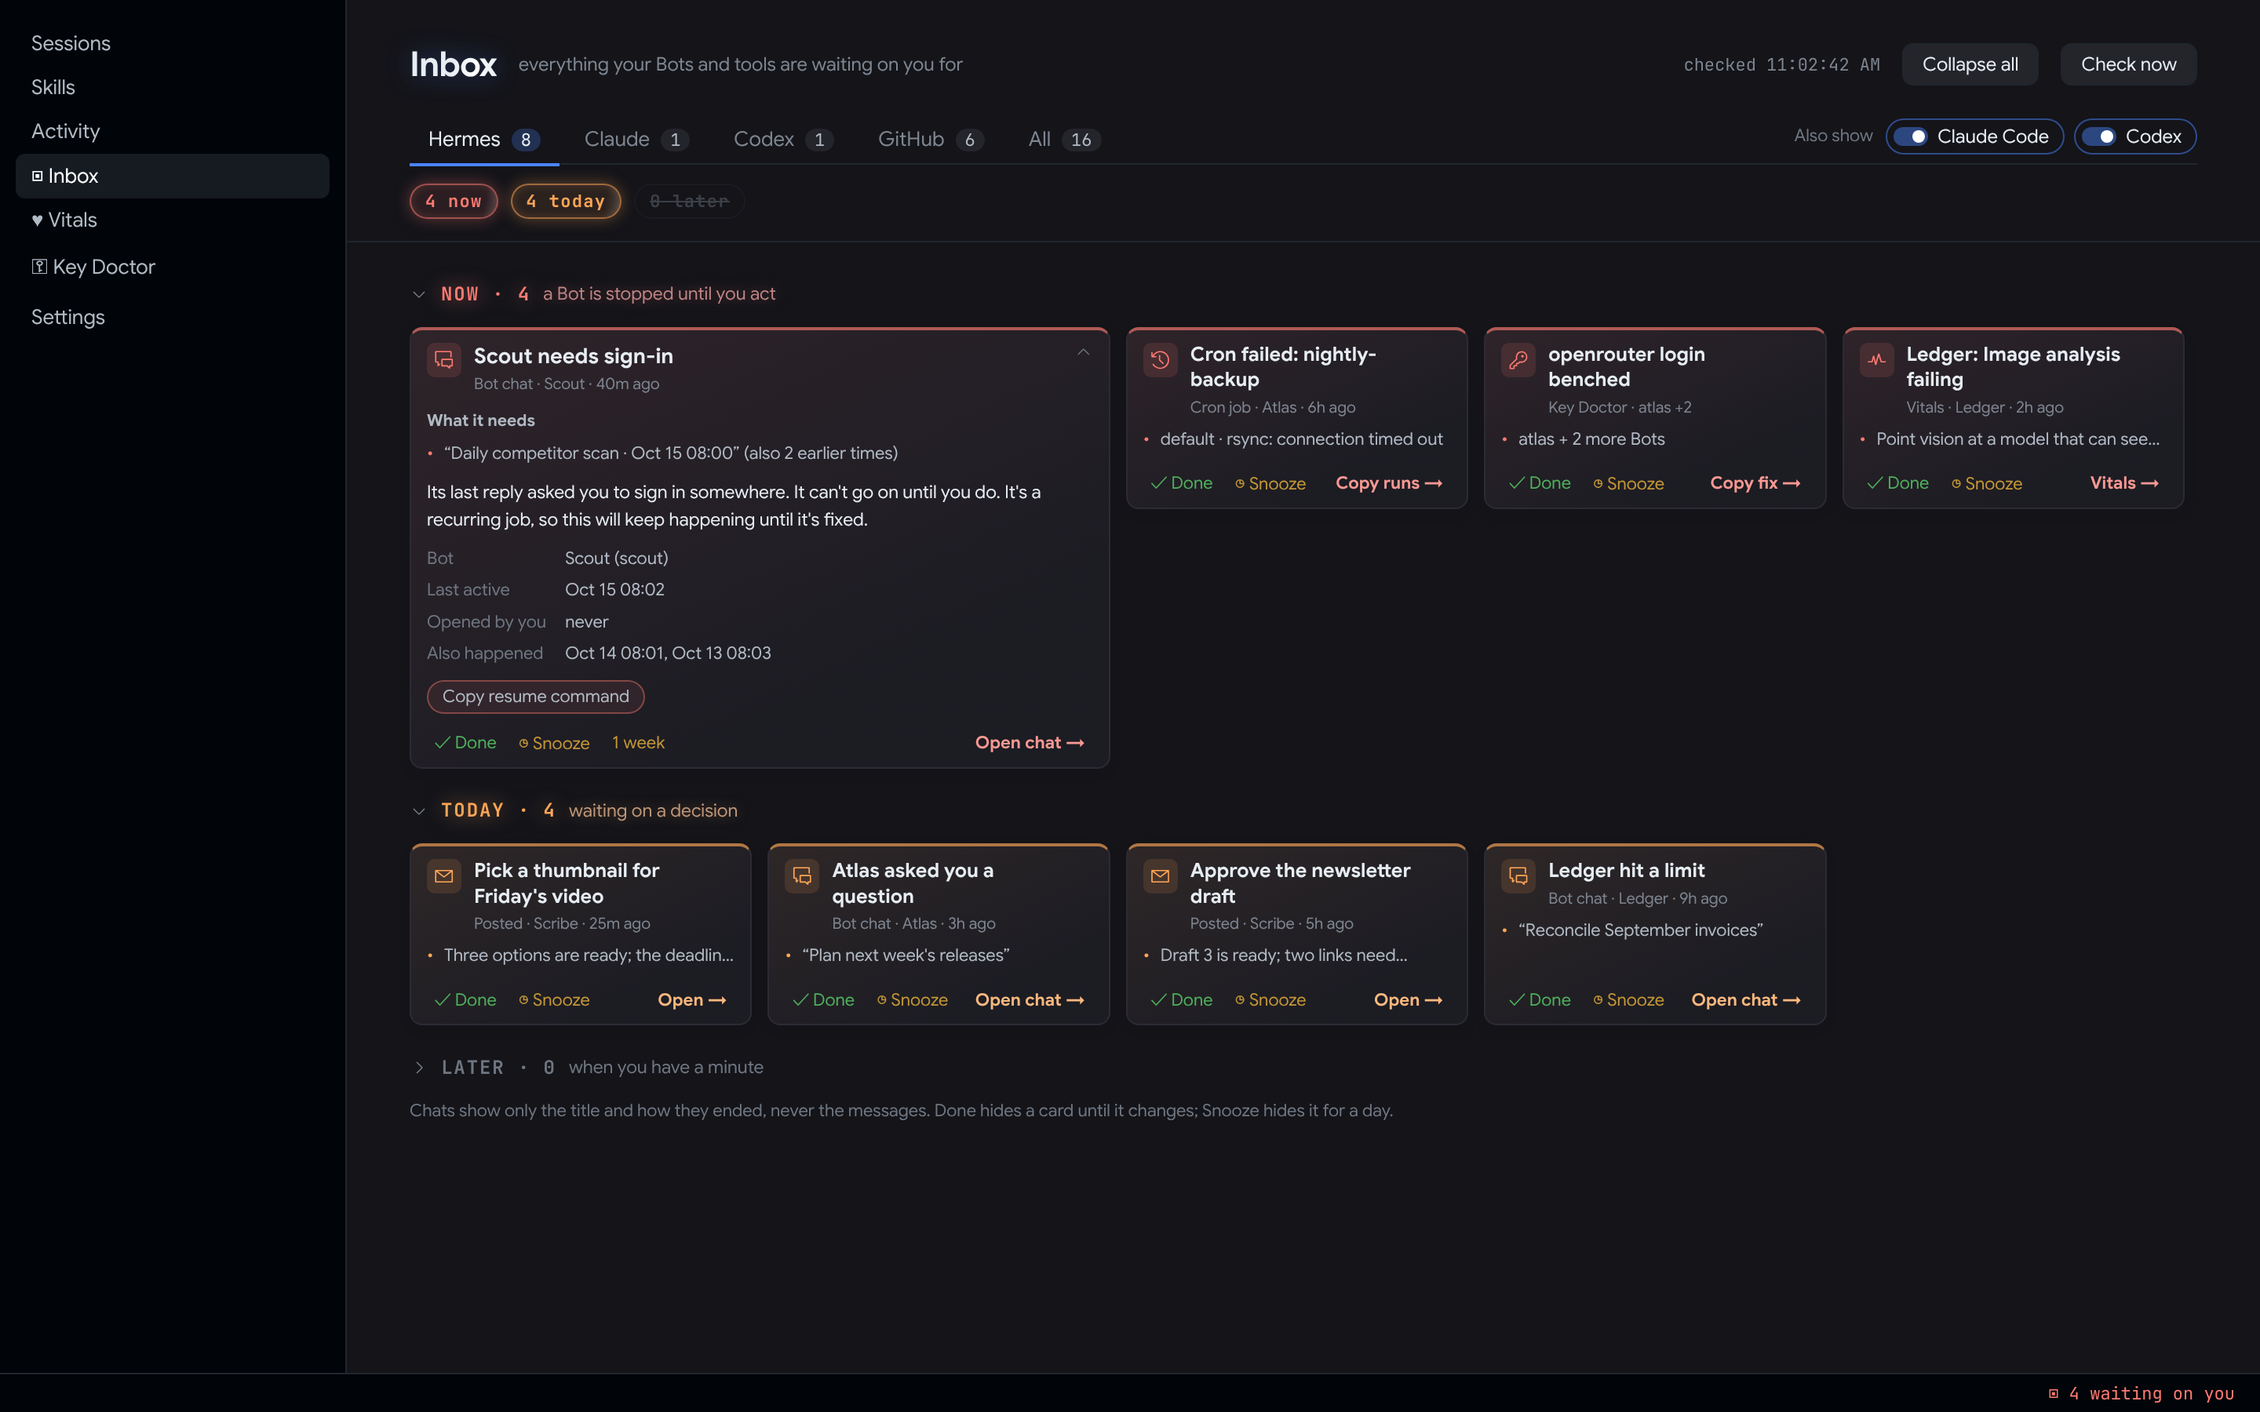
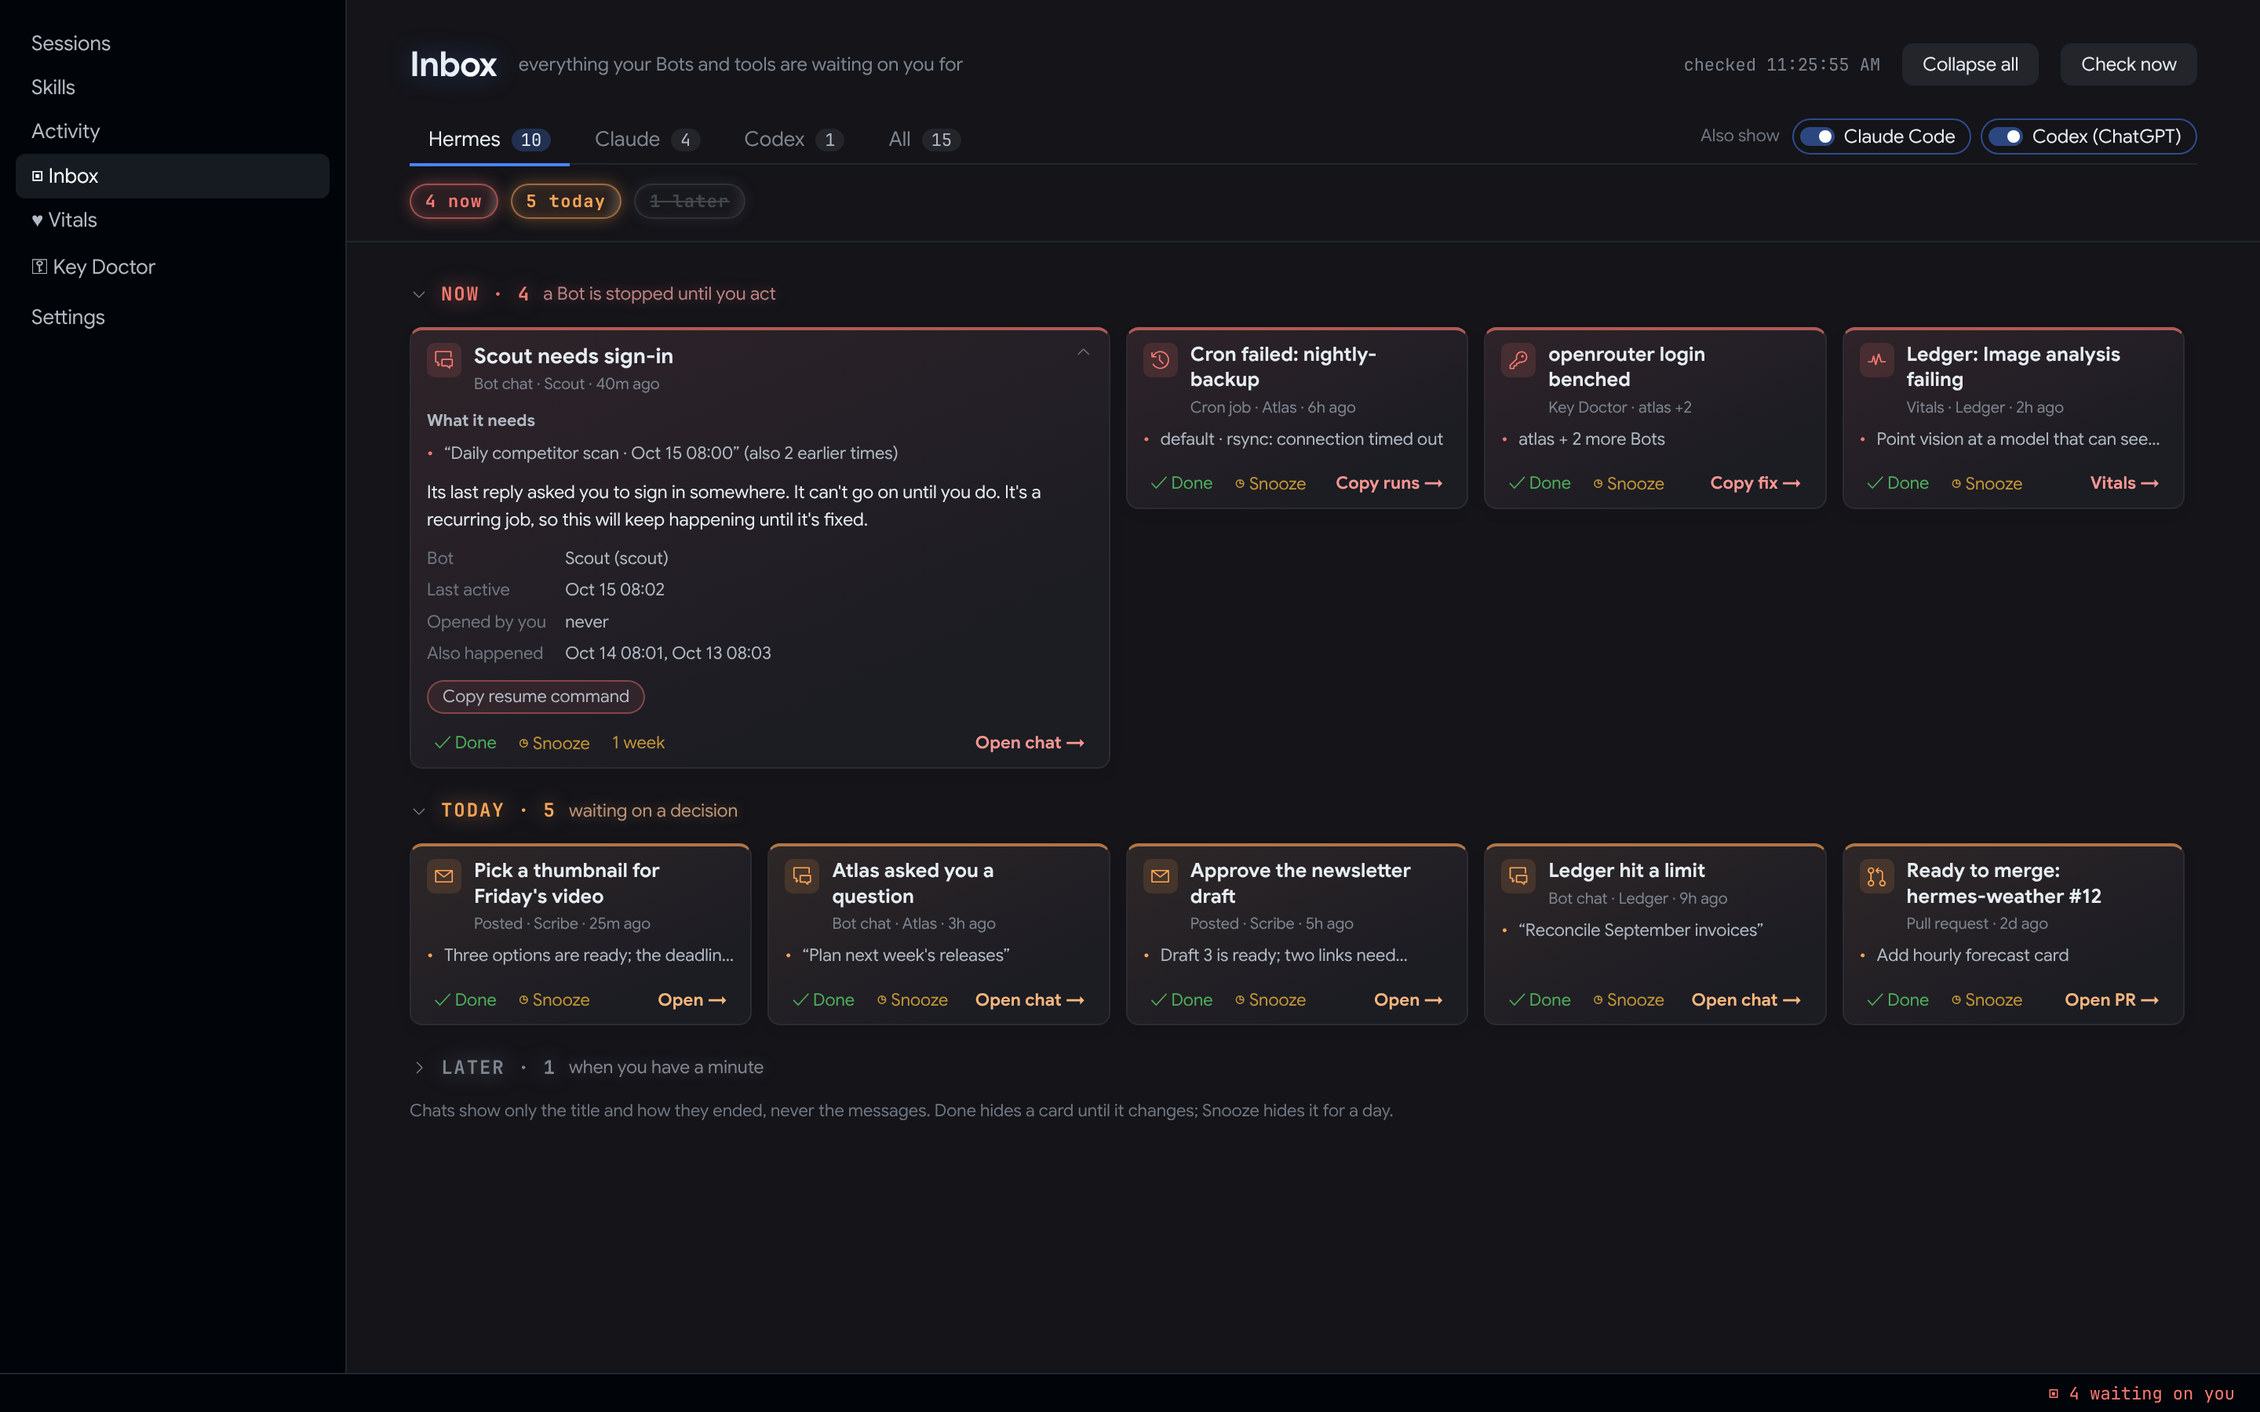
0.3.0: one inbox per agent — Hermes tab is Hermes repos only; Claude tab adds the PRs Claude Code opened; switches jump to their tab

diff --git a/desktop/plugin.js b/desktop/plugin.js
@@ -153,15 +153,15 @@ const CSS = `
 .hin .warn{font-size:11.5px;color:var(--ui-orange,#ffa657);margin-bottom:10px}
 `
 const ICON = { claude: 'sparkle', codex: 'terminal', filed: 'mail', keys: 'key', vitals: 'pulse', sessions: 'comment-discussion', crons: 'clock', prs: 'git-pull-request', review: 'eye' }
-const KIND = { claude: 'Claude Code', codex: 'Codex', filed: 'Posted', keys: 'Key Doctor', vitals: 'Vitals', sessions: 'Bot chat', crons: 'Cron job', prs: 'Pull request', review: 'X Studio' }
+const KIND = { claude: 'Claude Code', codex: 'Codex (ChatGPT)', filed: 'Posted', keys: 'Key Doctor', vitals: 'Vitals', sessions: 'Bot chat', crons: 'Cron job', prs: 'Pull request', review: 'X Studio' }
 // Tabs: one per app that has something waiting. The status-bar chip always counts every tab.
-const TABS = [['hermes', 'Hermes'], ['claude', 'Claude'], ['codex', 'Codex'], ['github', 'GitHub'], ['xstudio', 'X Studio'], ['all', 'All']]
+const TABS = [['hermes', 'Hermes'], ['claude', 'Claude'], ['codex', 'Codex'], ['xstudio', 'X Studio'], ['all', 'All']]
 const TAB_KEY = 'hermes-inbox.tab.v2'
 const loadTab = () => { try { return localStorage.getItem(TAB_KEY) || 'hermes' } catch { return 'hermes' } }
 const saveTab = (t) => { try { localStorage.setItem(TAB_KEY, t) } catch { /* fine */ } }
 const appOf = (it) => it.app || 'hermes'
 // Other agent apps are off until switched on here; the choice is saved in ~/.hermes/inbox.json.
-const SWITCHES = [['claude', 'Claude Code'], ['codex', 'Codex']]
+const SWITCHES = [['claude', 'Claude Code'], ['codex', 'Codex (ChatGPT)']]
 async function flipSource(name, on) {
   if (store.data) store.data = { ...store.data, switches: { ...(store.data.switches || {}), [name]: on } }
   notify()
@@ -277,7 +277,7 @@ function InboxPage() {
             const on = Boolean(d.switches && d.switches[name])
             return jsxs('button', { type: 'button', role: 'switch', 'aria-checked': on, className: on ? 'sw on' : 'sw',
               title: on ? `Hide ${label} sessions` : `Show ${label} sessions that are waiting on you`,
-              onClick: () => flipSource(name, !on), children: [jsx('i', { className: 'knob' }), label] }, name)
+              onClick: () => { flipSource(name, !on); if (!on) setTab(name); else if (current === name) setTab('hermes') }, children: [jsx('i', { className: 'knob' }), label] }, name)
           })] })]) }) : null,
     d ? jsx('div', { className: 'tally', children: LANES.map((l) => {
       const n = items.filter((i) => i.priority === l.key).length

diff --git a/hermes_inbox.py b/hermes_inbox.py
@@ -466,38 +466,115 @@ def src_codex(now: float, hours: float = 48) -> list[dict]:
 
 
 PR_CACHE = STATE.parent / "prs-cache.json"
+CLAUDE_PR_CACHE = STATE.parent / "claude-prs.json"
+
+
+def pr_app(repo: str, n: int, hermes_patterns: list[str], claude_prs: set[str], claude_on: bool) -> str | None:
+    """Which tab a PR belongs to. Hermes work is any repo whose name contains one of `hermes_repos`
+    (default: "hermes"); a PR that a Claude Code session opened belongs to Claude when that switch is on.
+    Anything else is not your agents' work and is left out."""
+    name = repo.lower()
+    if any(pat.lower() in name for pat in hermes_patterns):
+        return "hermes"
+    if claude_on and f"{repo}#{n}" in claude_prs:
+        return "claude"
+    return None
+
+
+def claude_pr_links() -> dict[str, list[str]]:
+    """repo -> ["repo#n", ...] for PRs that Claude Code sessions opened (its `pr-link` records).
+    Each transcript is rescanned only when its size or mtime changes."""
+    try:
+        cache = json.loads(CLAUDE_PR_CACHE.read_text())
+    except (OSError, ValueError):
+        cache = {}
+    out: dict[str, set[str]] = {}
+    fresh = {}
+    for f in (HOME / ".claude" / "projects").glob("*/*.jsonl"):
+        try:
+            st = f.stat()
+        except OSError:
+            continue
+        key = str(f)
+        entry = cache.get(key)
+        if not entry or entry.get("size") != st.st_size or entry.get("mtime") != st.st_mtime:
+            links = []
+            try:
+                with f.open("rb") as fh:
+                    for line in fh:
+                        if b'"pr-link"' not in line:
+                            continue
+                        try:
+                            d = json.loads(line)
+                        except ValueError:
+                            continue
+                        if d.get("type") == "pr-link" and d.get("prRepository") and d.get("prNumber"):
+                            links.append(f"{d['prRepository']}#{d['prNumber']}")
+            except OSError:
+                continue
+            entry = {"size": st.st_size, "mtime": st.st_mtime, "links": sorted(set(links))}
+        fresh[key] = entry
+        for link in entry["links"]:
+            out.setdefault(link.split("#")[0], set()).add(link)
+    try:
+        CLAUDE_PR_CACHE.parent.mkdir(parents=True, exist_ok=True)
+        CLAUDE_PR_CACHE.write_text(json.dumps(fresh))
+    except OSError:
+        pass
+    return {k: sorted(v) for k, v in out.items()}
 
 
 def src_prs(now: float, max_age: float = 600) -> list[dict]:
-    """Checking every PR's mergeability is slow (one call each), so the result is reused for 10 minutes."""
+    """Checking every PR's mergeability is slow (one call each), so the raw result is reused for 10 minutes."""
+    raw = None
     try:
         cached = json.loads(PR_CACHE.read_text())
         if now - cached["at"] < max_age:
-            return cached["items"]
+            raw = cached["prs"]
     except (OSError, ValueError, KeyError):
         pass
-    items = _src_prs(now)
-    PR_CACHE.parent.mkdir(parents=True, exist_ok=True)
-    PR_CACHE.write_text(json.dumps({"at": now, "items": items}))
+    if raw is None:
+        raw = _fetch_prs(now)
+        PR_CACHE.parent.mkdir(parents=True, exist_ok=True)
+        PR_CACHE.write_text(json.dumps({"at": now, "prs": raw}))
+    cfg = config()
+    patterns = cfg.get("hermes_repos") or ["hermes"]
+    claude_on = bool((cfg.get("sources") or {}).get("claude"))
+    linked = set()
+    if claude_on:
+        for links in claude_pr_links().values():
+            linked.update(links)
+    items = []
+    for pr in raw:
+        app = pr_app(pr["repo"], pr["n"], patterns, linked, claude_on)
+        if not app:
+            continue
+        it = pr_item({**pr, "now": now, "stale_days": cfg.get("stale_pr_days", 30)})
+        if not it:
+            continue
+        it["app"] = app
+        if app == "claude":
+            it["agent"] = "Claude Code"
+            it["facts"] = [["Opened by", "a Claude Code session"]] + (it.get("facts") or [])
+        items.append(it)
     return items
 
 
-def _src_prs(now: float) -> list[dict]:
+def _fetch_prs(now: float) -> list[dict]:
+    """Your open PRs with their state, before any tab filtering (so a switch flip needs no refetch)."""
     listing = run_json(["gh", "search", "prs", "--author", "@me", "--state", "open", "--json", "repository,number,title,url,updatedAt", "--limit", "100"], 60)
     if not isinstance(listing, list):
         return []
     ignore = set(config().get("ignore_repos") or [])
     mine = [p for p in listing if not p["repository"]["nameWithOwner"].startswith("NousResearch/") and p["repository"]["nameWithOwner"] not in ignore]
 
-    def one(p: dict) -> dict | None:
+    def one(p: dict) -> dict:
         repo = p["repository"]["nameWithOwner"]
         d = run_json(["gh", "pr", "view", str(p["number"]), "-R", repo, "--json", "isDraft,baseRefName,mergeable,mergeStateStatus,statusCheckRollup"], 30) or {}
-        return pr_item({"repo": repo, "n": p["number"], "title": p["title"], "url": p["url"], "cat": classify_pr(d), "now": now, "stale_days": config().get("stale_pr_days", 30),
-                        "at": iso_ts(p.get("updatedAt"))})
+        return {"repo": repo, "n": p["number"], "title": p["title"], "url": p["url"], "cat": classify_pr(d), "at": iso_ts(p.get("updatedAt"))}
 
     with ThreadPoolExecutor(max_workers=8) as pool:  # one gh call per PR; in parallel it's seconds, not a minute
-        items = [it for it in pool.map(one, mine) if it]
-    return items
+        return list(pool.map(one, mine))
 
 
 def src_review(now: float) -> list[dict]:
@@ -582,7 +659,7 @@ def remove_card(item_id: str) -> bool:
     return False
 
 
-APP = {"prs": "github", "review": "xstudio", "claude": "claude", "codex": "codex"}
+APP = {"prs": "hermes", "review": "xstudio", "claude": "claude", "codex": "codex"}
 
 SOURCES = {"filed": src_filed, "claude": src_claude, "codex": src_codex, "keys": src_keys, "vitals": src_vitals, "sessions": src_sessions, "crons": src_crons, "prs": src_prs, "review": src_review}
 

diff --git a/tests/test_hermes_inbox.py b/tests/test_hermes_inbox.py
@@ -72,6 +72,21 @@ def item(i, priority="today", at=NOW - 100, source="review"):
             "action": {"kind": "url", "label": "Open", "value": "x"}}
 
 
+class PrApp(unittest.TestCase):
+    def test_hermes_repos_go_to_hermes(self):
+        self.assertEqual(h.pr_app("me/hermes-newsroom", 3, ["hermes"], set(), False), "hermes")
+        self.assertEqual(h.pr_app("me/Hermes-Agent-Archive", 3, ["hermes"], set(), False), "hermes")
+        self.assertEqual(h.pr_app("me/screenpolish", 3, ["hermes", "screenpolish"], set(), False), "hermes")
+
+    def test_claude_prs_only_when_the_switch_is_on(self):
+        self.assertEqual(h.pr_app("me/dotfiles", 7, ["hermes"], {"me/dotfiles#7"}, True), "claude")
+        self.assertIsNone(h.pr_app("me/dotfiles", 7, ["hermes"], {"me/dotfiles#7"}, False))
+        self.assertIsNone(h.pr_app("me/dotfiles", 8, ["hermes"], {"me/dotfiles#7"}, True))
+
+    def test_unrelated_prs_are_left_out(self):
+        self.assertIsNone(h.pr_app("me/weekend-game", 1, ["hermes"], set(), True))
+
+
 class Visible(unittest.TestCase):
     def test_sorted_by_priority_then_newest(self):
         out = h.visible([item("a", "later"), item("b", "now", NOW - 500), item("c", "now", NOW - 10)], {}, NOW)

diff --git a/README.md b/README.md
@@ -24,16 +24,18 @@ Bots can post their own cards too (`hermes inbox add`), so a cron job can ask yo
 | **Crons** | A job's last run failed | Now |
 | **Keys** ([Key Doctor](https://github.com/BkashJEE/hermes-key-doctor), optional) | A Bot can't reach its model; a login is benched, dead or expiring | Now / Today |
 | **Vitals** (optional) | A red alarm | Now |
-| **PRs** (`gh`, optional) | Your PR is ready to merge | Today, or Later if untouched for 30 days |
-| | Your PR has conflicts or failing checks | Later |
+| **PRs** (`gh`, optional) | Your PR in a Hermes repo is ready to merge | Today, or Later if untouched for 30 days |
+| | It has conflicts or failing checks | Later |
 | **Posted** | A Bot or script ran `hermes inbox add` | its choice |
 | **X Studio** (optional) | A draft is waiting for review | Today |
-| **Claude Code** (opt-in) | A session's last message is Claude's and it ended stuck, on a question, or asking you to check something | Now / Today |
-| **Codex** (opt-in) | The same, for Codex threads | Now / Today |
+| **Claude Code** (opt-in) | A session's last message is Claude's and it ended stuck, on a question, or asking you to check something; plus the PRs Claude Code opened | Now / Today |
+| **Codex (ChatGPT)** (opt-in) | The same, for Codex threads | Now / Today |
 
-Every card says **which Bot needs you** (or which Claude Code / Codex session). Tabs along the top split the list by app. **Hermes** is the default tab, followed by GitHub, X Studio and All.
+Every card says **which Bot needs you** (or which Claude Code / Codex session).
 
-**Claude Code and Codex are off until you switch them on.** Use the **Also show** switches on the page, or `hermes inbox set claude on`. When one is on, its own tab appears.
+**One inbox per agent.** The **Hermes** tab is Hermes work only: Bot sessions, crons, keys, Vitals, posted cards, and your PRs in Hermes repos (any repo with `hermes` in its name; add more under `hermes_repos`). PRs in other repos are left out, unless an agent opened them.
+
+**Claude Code and Codex are off until you switch them on.** Flip the **Also show** switches on the page (or `hermes inbox set claude on`) and that agent gets its own tab: its sessions that are waiting on you, and, for Claude Code, the PRs its sessions opened.
 
 Chats show only the session title and how the session ended, never the messages. A daily cron that gets stuck every day shows as **one** card ("also 2 earlier times").
 
@@ -95,6 +97,7 @@ hermes inbox set claude on         # show Claude Code sessions (or codex; off to
 ```json
 {
   "sources": { "prs": false, "claude": true, "codex": false },
+  "hermes_repos": ["hermes", "screenpolish"],
   "ignore_repos": ["me/old-experiment"],
   "stale_pr_days": 30,
   "xstudio_url": "http://127.0.0.1:3417"
@@ -107,9 +110,9 @@ hermes inbox set claude on         # show Claude Code sessions (or codex; off to
   - each profile's `state.db`: session titles, timestamps, and the last assistant reply, which is used only to tell how the session ended;
   - `cron/jobs.json`;
   - Key Doctor's and Vitals' JSON output, if those plugins are installed;
-  - `gh search prs --author @me`, if `gh` is signed in;
+  - `gh search prs --author @me`, if `gh` is signed in (then only PRs in `hermes_repos` repos, or ones a Claude Code session opened, are shown);
   - the X Studio URL, if you set one;
-  - with `claude` / `codex` turned on: the last ~2 MB of each Claude Code session in `~/.claude/projects/` and Codex thread in `~/.codex/sessions/` active in the last 48 h. It reads only the title, the folder, and the last message, to tell how it ended.
+  - with `claude` / `codex` turned on: the last ~2 MB of each Claude Code session in `~/.claude/projects/` and Codex thread in `~/.codex/sessions/` active in the last 48 h. It reads only the title, the folder, and the last message, to tell how it ended. With Claude on, it also scans Claude Code transcripts for their `pr-link` records (repo and PR number only), cached by file size and mtime.
 - **Writes:**
   - `~/.local/state/hermes-inbox/`: done/snooze marks and a 10-minute PR cache;
   - `~/.hermes/inbox/`: posted cards.
@@ -120,7 +123,7 @@ Each source fails soft. If one can't be read, the others still show, with a one-
 ## Develop
 
 ```bash
-python3 -m unittest discover -s tests     # 22 tests, no Hermes needed
+python3 -m unittest discover -s tests     # 25 tests, no Hermes needed
 python3 hermes_inbox.py                   # runs without Hermes's CLI
 ```
 

diff --git a/CHANGELOG.md b/CHANGELOG.md
@@ -1,5 +1,12 @@
 # Changelog
 
+## 0.3.0 — 2026-10-15
+
+- **One inbox per agent.** The Hermes tab is Hermes work only: PRs are included only from Hermes repos (`hermes_repos`, default `["hermes"]`). Other PRs are left out.
+- **Claude's own inbox:** with the Claude Code switch on, its tab shows Claude's waiting sessions and the PRs its sessions opened (from Claude Code's `pr-link` records).
+- **Codex (ChatGPT)** tab: its waiting threads.
+- Flipping a switch on jumps to that tab. The GitHub tab is gone.
+
 ## 0.2.1 — 2026-10-15
 
 - **Hermes is the default tab.**
